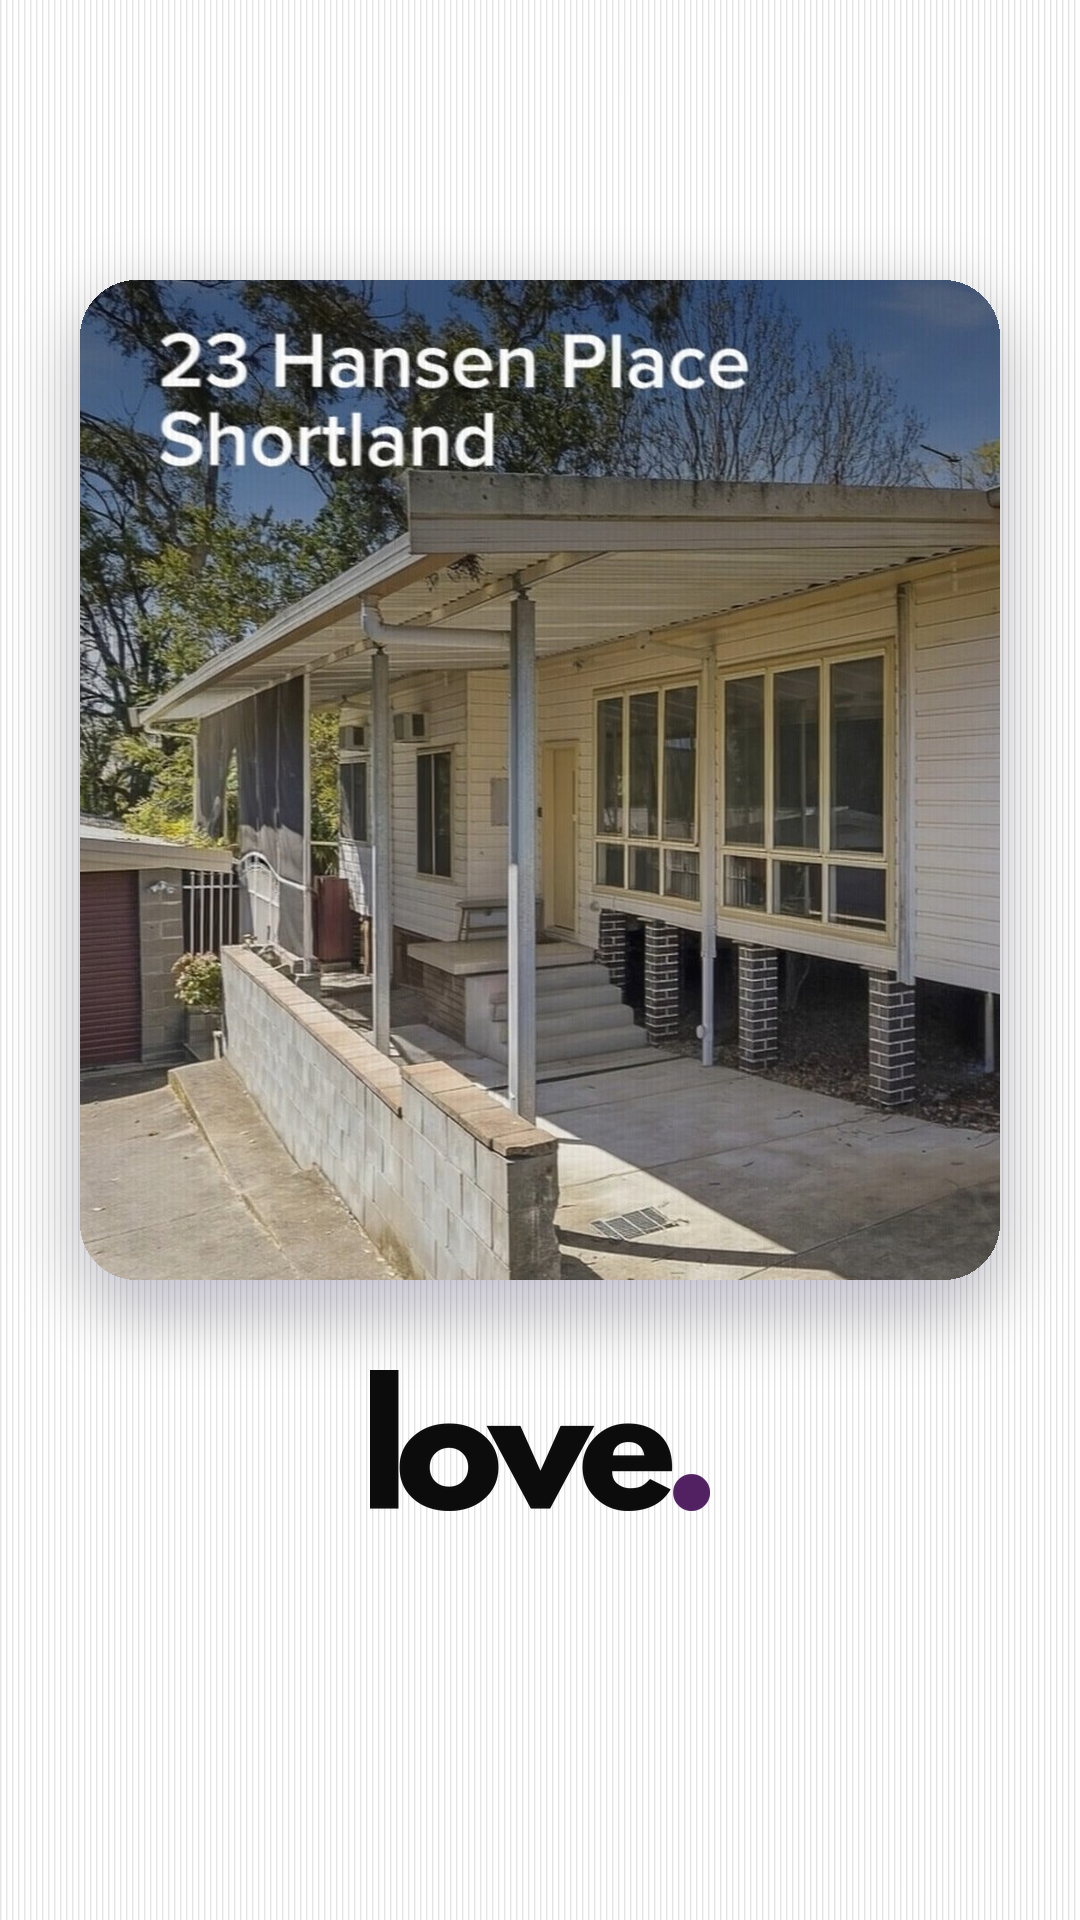
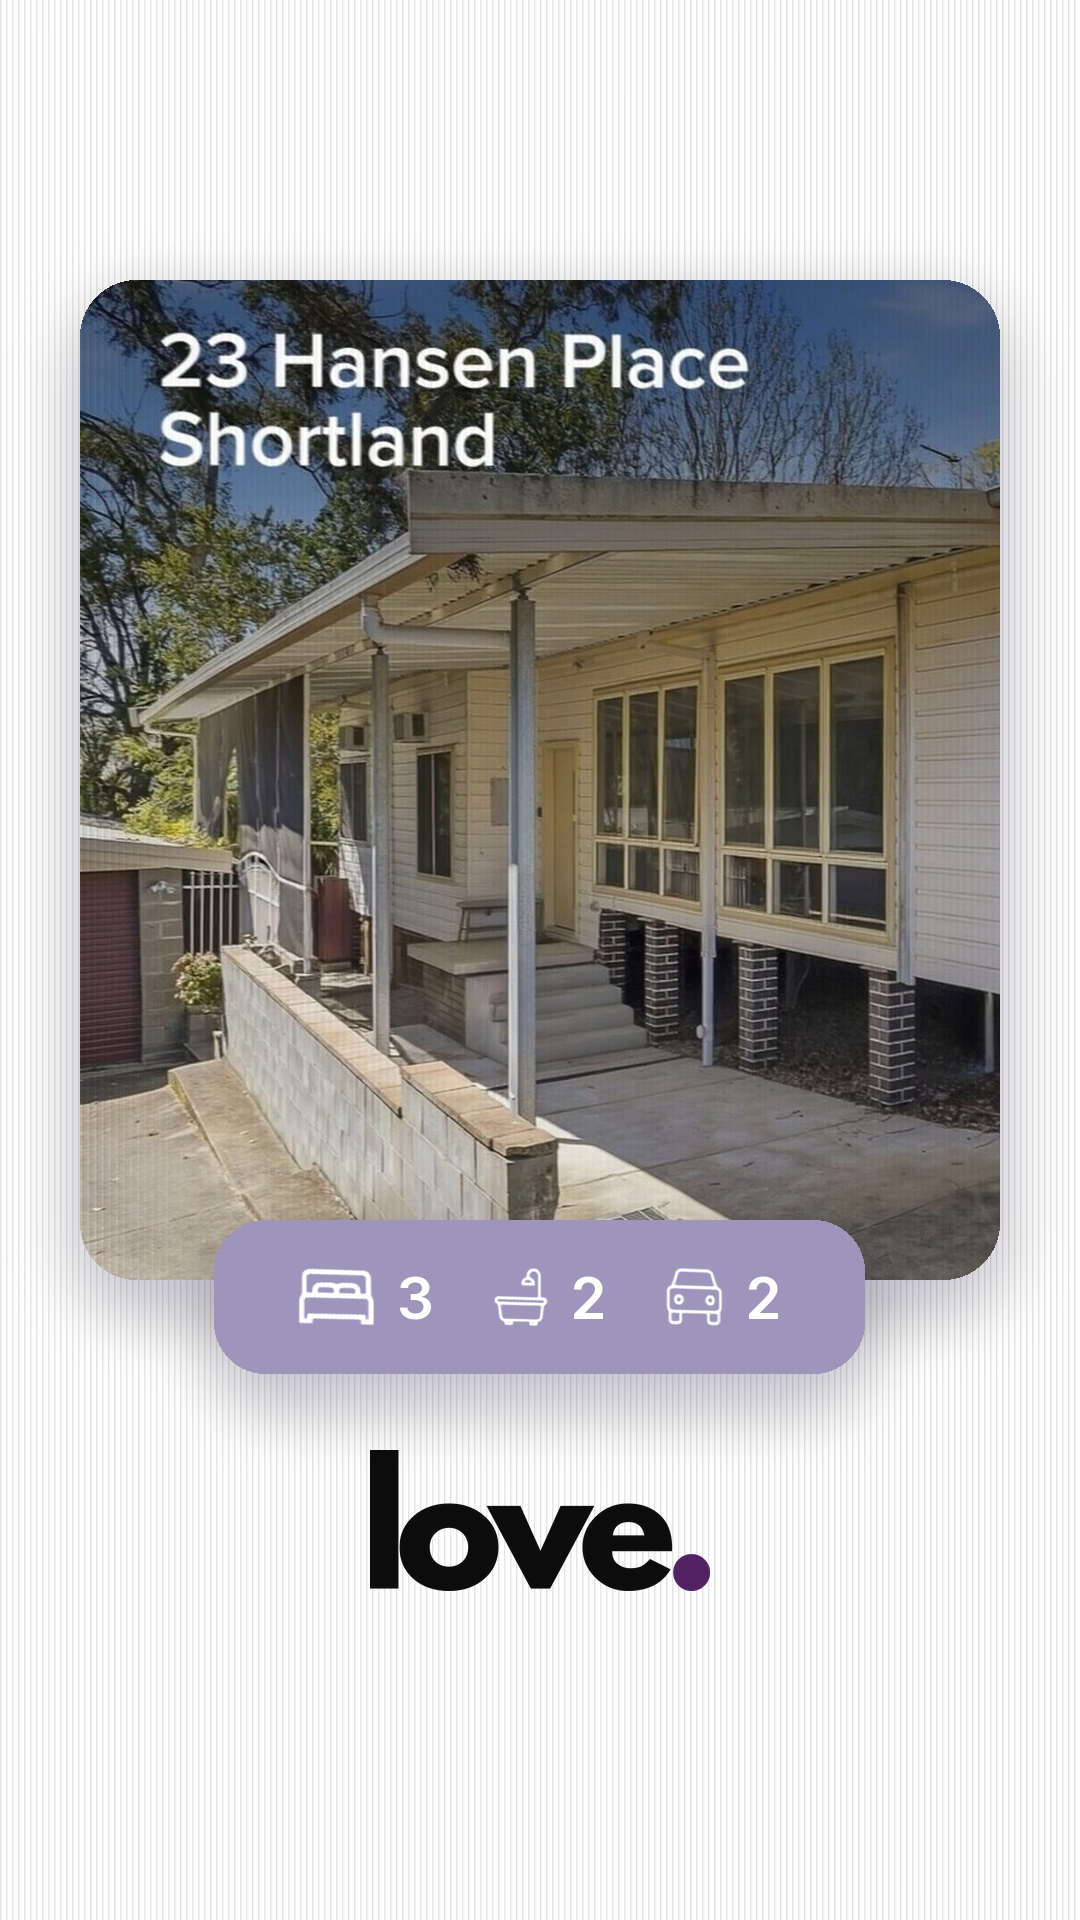
Add stats to reel covers and a cover for 14 Burke Place
Stats come from the reels' own stats cards. from_frame.py now finds the
stripe frequency with an FFT, so screenshots scaled to a non-integer stripe
period are cleaned too.

Claude-Session: https://claude.ai/code/session_018yqqEkjCd1zSctpogeTxwU

Changed region(s): [[0.1833, 0.625, 0.825, 0.8438]]

diff --git a/reels/from_frame.py b/reels/from_frame.py
@@ -21,24 +21,30 @@ except ImportError:
     sys.exit("from_frame.py needs numpy and Pillow: pip install numpy pillow")
 
 
-def destripe(rgb, period_max=8):
+def destripe(rgb):
     lum = rgb.mean(2) + 1.0
     # each pixel against the mean of its row neighbourhood, then the median down
     # each column: photo detail averages out, the stripe gain does not
     k = 9
     pad = np.pad(lum, ((0, 0), (k // 2, k // 2)), mode="edge")
     local = np.lib.stride_tricks.sliding_window_view(pad, k, axis=1).mean(2)
-    gain = np.median(lum / local, axis=0)
-    # the stripes are periodic; fold the gain onto the best period to drop noise
-    best, best_var = None, 0
-    for p in range(3, period_max + 1):
-        folded = np.array([gain[i::p].mean() for i in range(p)])
-        if folded.var() > best_var:
-            best, best_var = p, folded.var()
-    folded = np.array([np.median(gain[i::best]) for i in range(best)])
-    g = np.resize(folded, rgb.shape[1])
+    gain = np.median(lum / local, axis=0) - 1.0
+    # A screenshot may be scaled, so the period need not be a whole number of
+    # pixels. Find the stripe frequency, keep it and its harmonics, and divide
+    # out only that periodic part.
+    n = len(gain)
+    spec = np.fft.rfft(gain)
+    freqs = np.fft.rfftfreq(n)
+    band = freqs > 1 / 12  # stripes repeat every 12 px or less
+    peak = np.argmax(np.abs(spec) * band)
+    keep = np.zeros_like(spec)
+    for h in (1, 2, 3):
+        b = peak * h
+        if b < len(spec):
+            keep[max(b - 2, 0):b + 3] = spec[max(b - 2, 0):b + 3]
+    g = 1.0 + np.fft.irfft(keep, n)
     out = rgb / g[None, :, None]
-    return np.clip(out, 0, 255), best
+    return np.clip(out, 0, 255), 1 / freqs[peak]
 
 
 def main():
@@ -51,7 +57,7 @@ def main():
     rgb = np.asarray(Image.open(args.frame).convert("RGB").crop(tuple(args.box))).astype(float)
     clean, period = destripe(rgb)
     Image.fromarray(clean.round().astype(np.uint8)).save(args.out, optimize=True)
-    print(f"{args.out} (stripe period {period} px)")
+    print(f"{args.out} (stripe period {period:.2f} px)")
 
 
 if __name__ == "__main__":

diff --git a/reels/README.md b/reels/README.md
@@ -42,7 +42,8 @@ python3 reels/make_cover.py reels/<property>/exterior-from-reel.png --focus 0 0.
 The address is already in the frame, so leave out `--address`. `--focus 0`
 keeps the left edge, where the reel puts the text.
 
-Without stats, the logo moves up to sit closer to the card.
+Without stats, the logo moves up to sit closer to the card. The stripe
+remover finds the stripe spacing itself, so a scaled-down screenshot works too.
 
 ## Assets
 
@@ -66,9 +67,16 @@ Each listing gets a folder. `295-main-road/` has:
 | `sfx.py` | Builds `sfx-track.wav`. Cue times are set by hand for this reel |
 | `endcard.filter` | ffmpeg drawtext filter that adds "listed with" at 18.85s |
 
-`112-janet-street/`, `23-hansen-place/` and `608-main-road/` each have
-`cover.png` and `exterior-from-reel.png`, made from reel screenshots. They
-have no stats pill yet.
+`112-janet-street/`, `23-hansen-place/`, `608-main-road/` and
+`14-burke-place/` each have `cover.png` and `exterior-from-reel.png`, made
+from reel screenshots, with stats read off each reel's stats card:
+
+| Property | Bed | Bath | Car |
+|---|---|---|---|
+| 2/112 Janet Street, North Lambton | 2 | 1 | 1 |
+| 23 Hansen Place, Shortland | 3 | 2 | 2 |
+| 608 Main Road, Edgeworth | 3 | 1 | none shown |
+| 14 Burke Place, Birmingham Gardens | 4 | 2 | 2 |
 
 The sound cues in `sfx.py` follow this reel's motion, so a new reel needs its
 own cue times.
